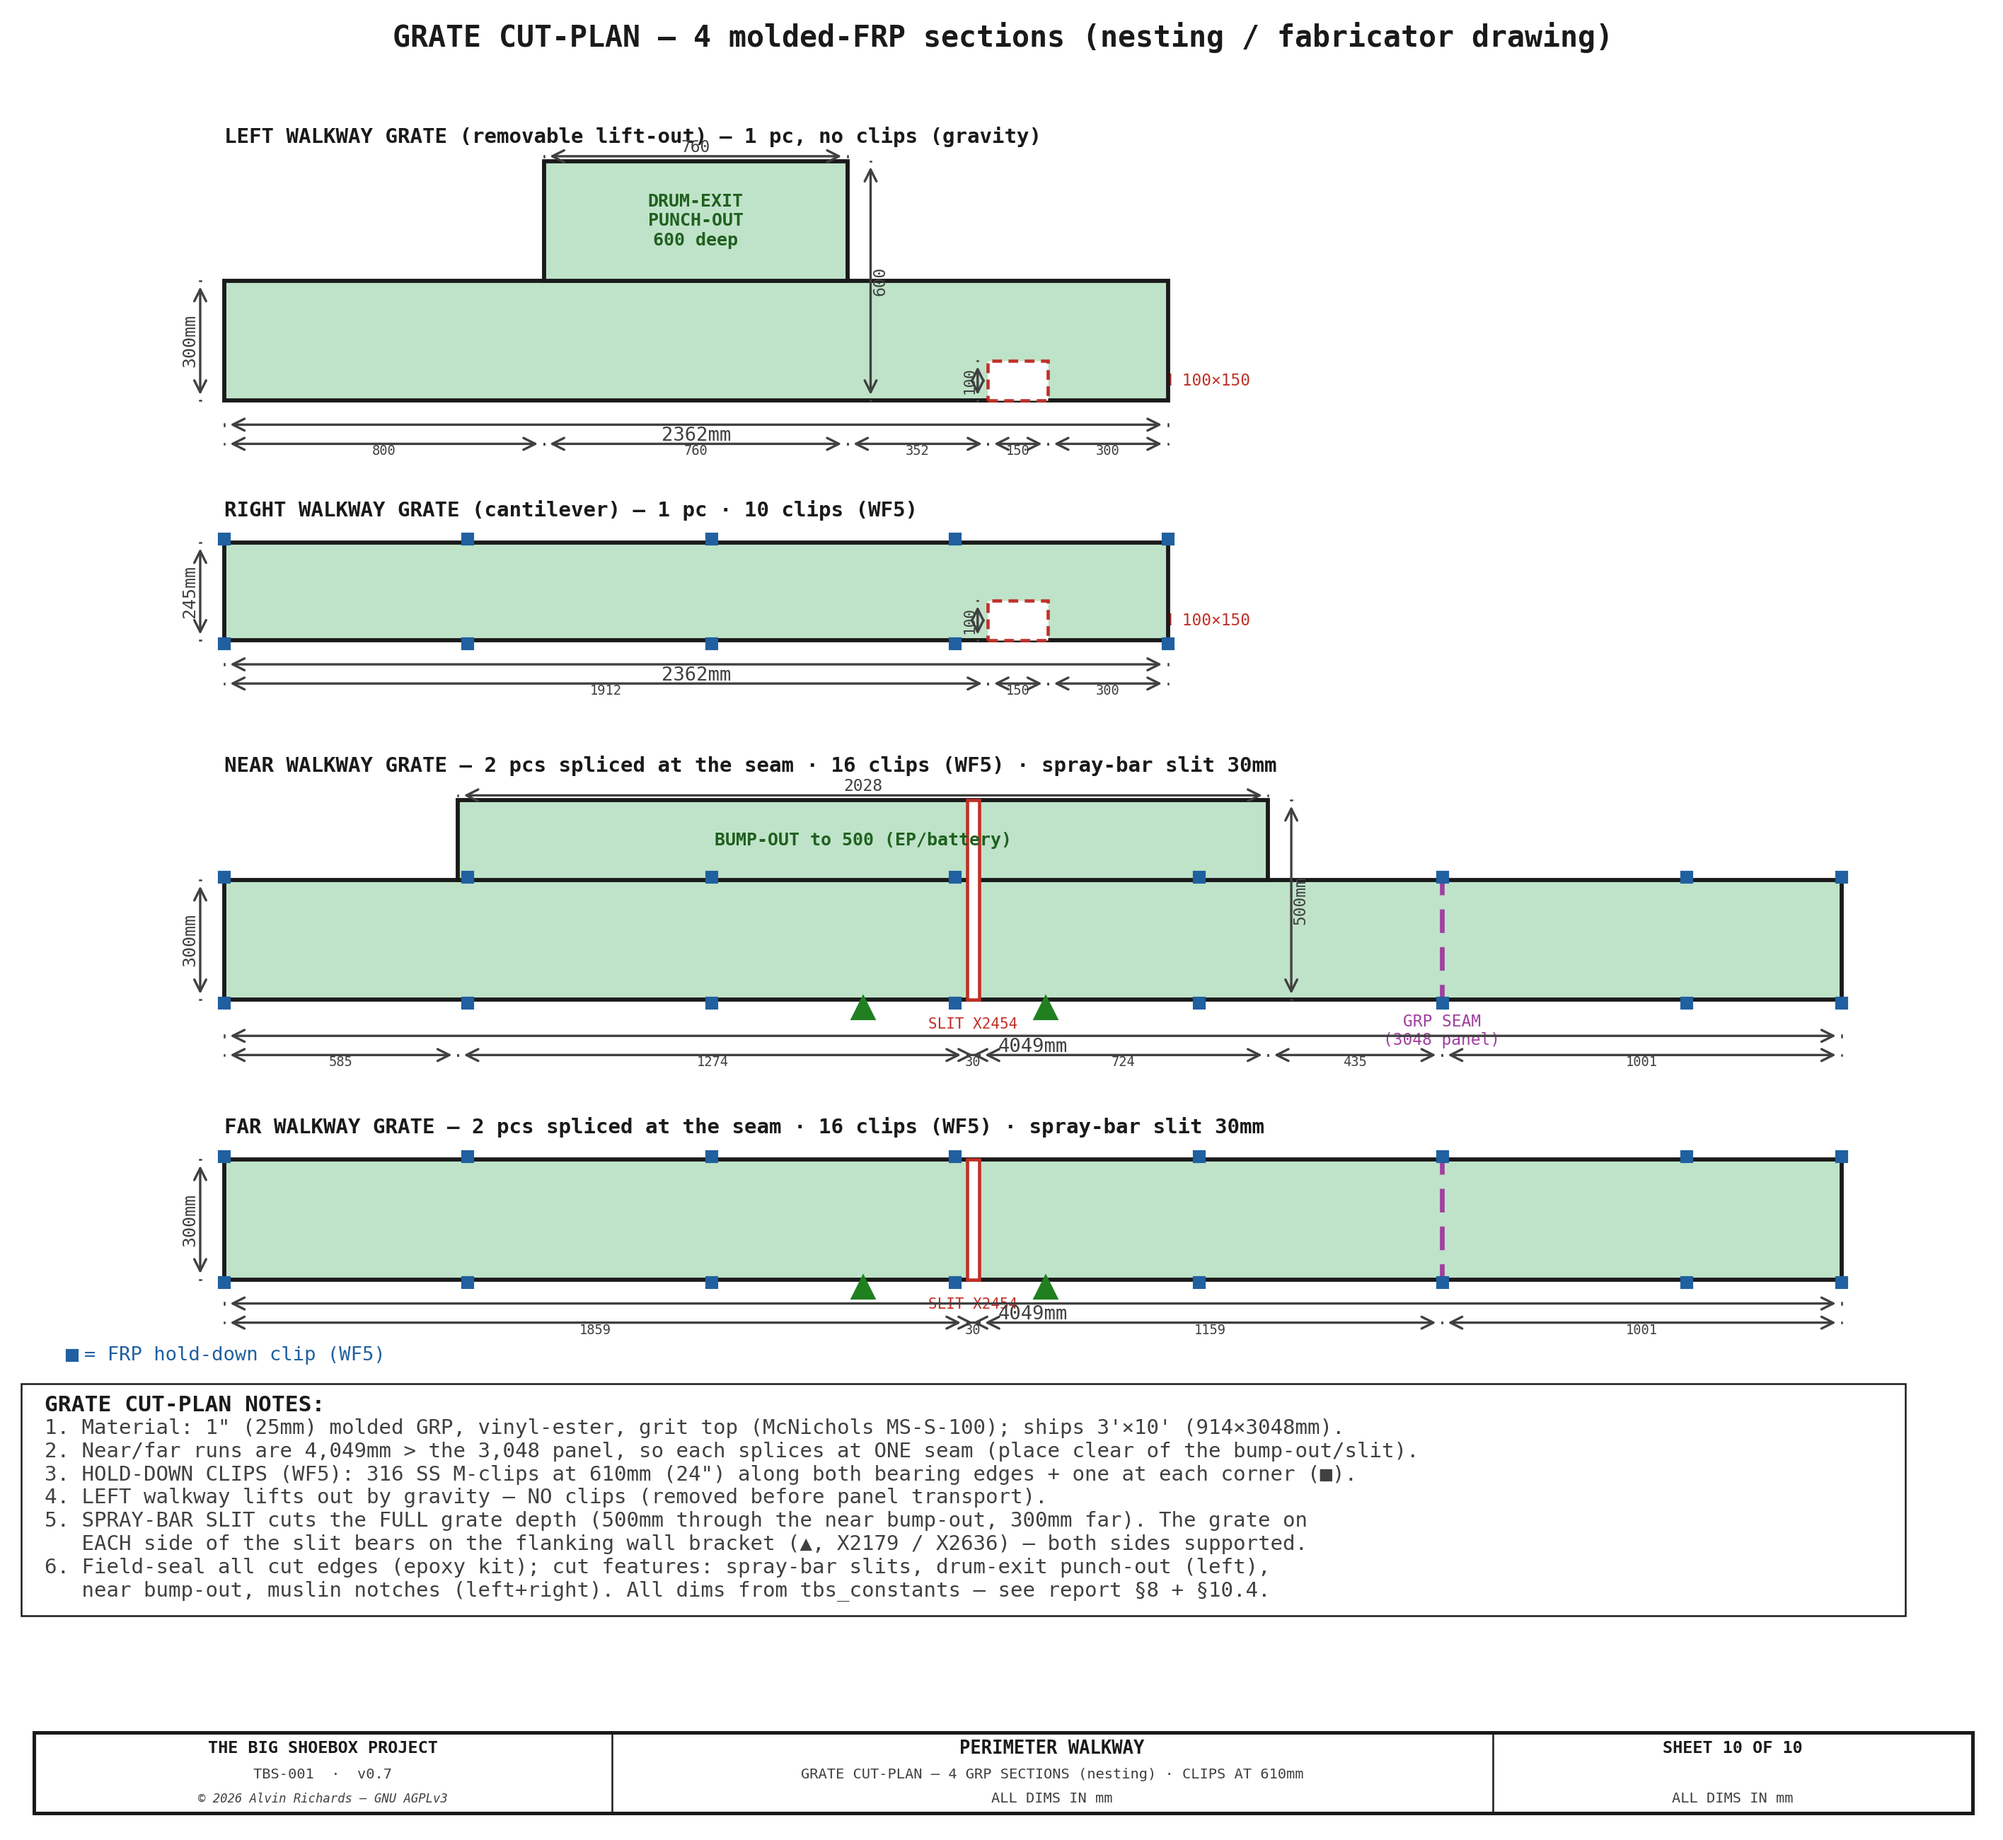
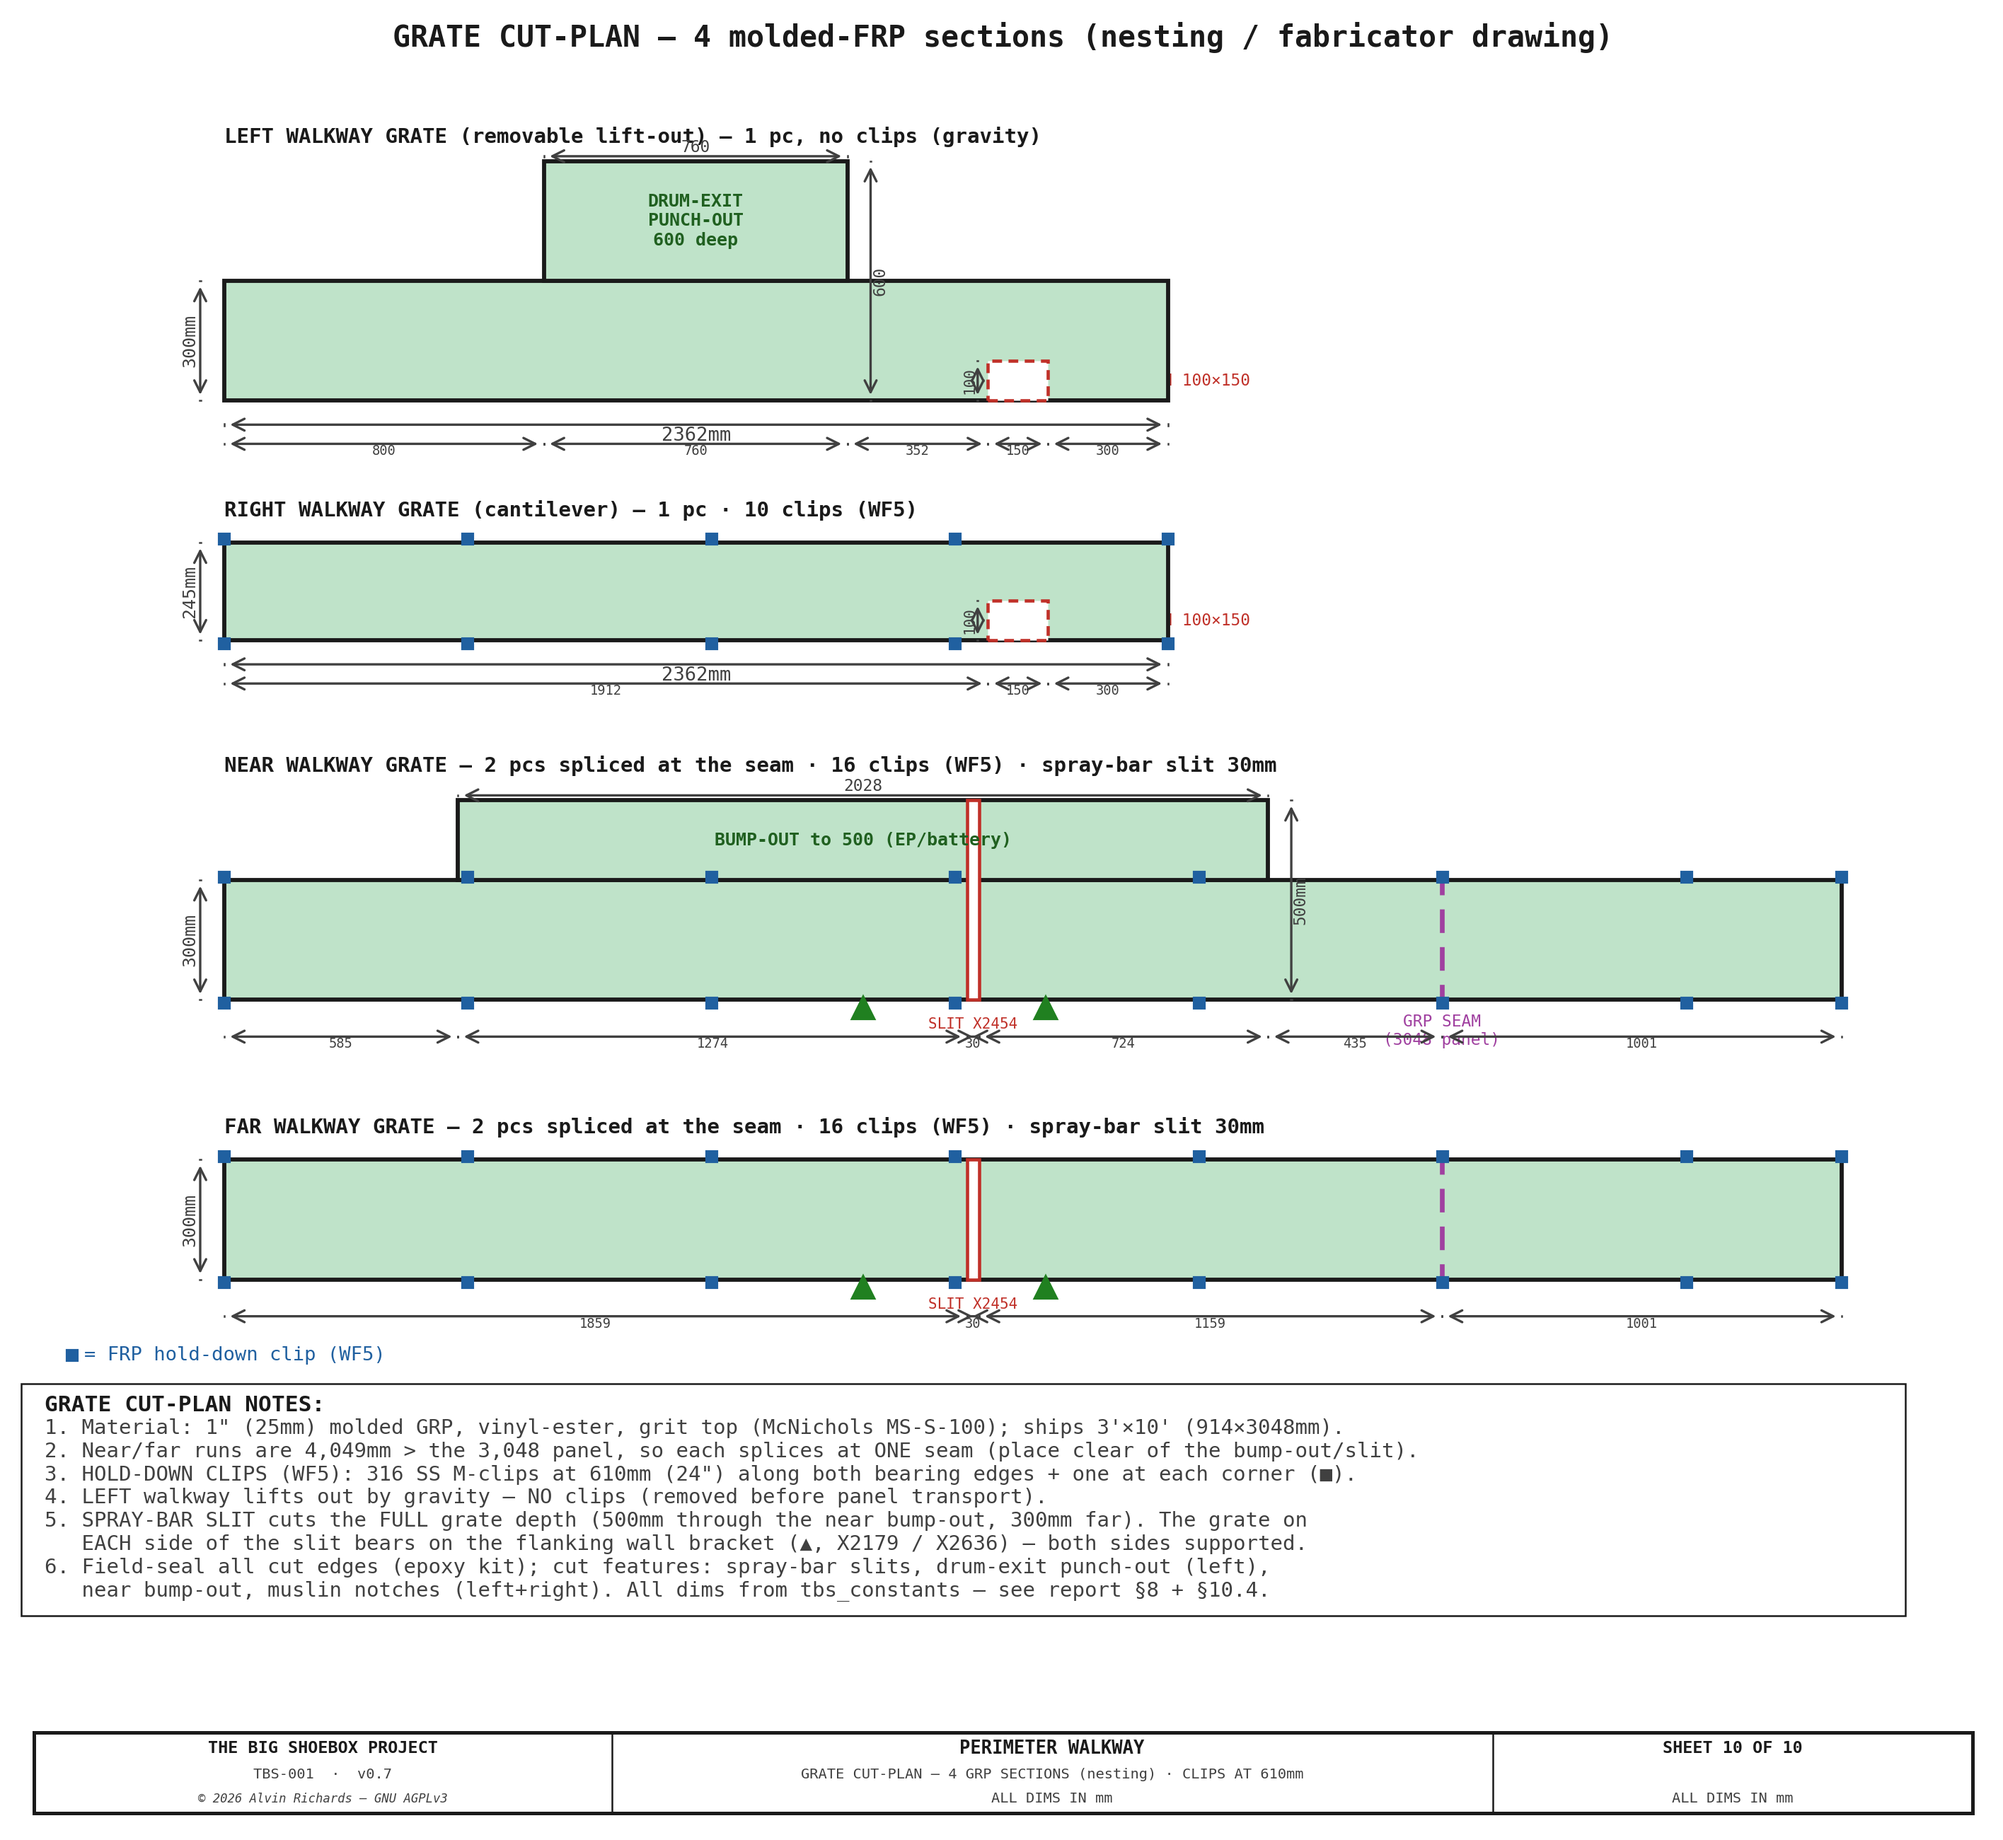
walkway Sheet 10: drop the overall length line on the near/far sections
Alvin: on the two long (4049mm) sections the overall length dim clashed with the
mid-span slit callouts. Drop it there — the position dimension chain (which locates
every cut edge) already sums to the full length. Left/right keep their 2362mm
overall (no congestion). FAR chain dropped to match NEAR spacing (clears the slit
label).

diff --git a/src/generators/generate_walkway_diagram.py b/src/generators/generate_walkway_diagram.py
@@ -2772,12 +2772,12 @@ def sheet10():
     nc = clips(0, nf_len, y - 8) + clips(0, nf_len, y + W + 8)
     ax.text(0, y + W + 260, f"NEAR WALKWAY GRATE — 2 pcs spliced at the seam · {nc} clips (WF5) · spray-bar slit {SPRAY_BAR_SLIT_W}mm",
             ha="left", va="bottom", fontsize=7, color=C_OUT, fontweight="bold", **FONT)
-    draw_dim_h(ax, 0, nf_len, y - 90, f"{nf_len:.0f}mm", offset=8, fs=6.5, above=False, font=FONT)
     draw_dim_v(ax, -60, y, y + W, f"{W}mm", offset=8, fs=6, right=False, font=FONT)
-    # cutout dims — bump-out (width above, 500 depth on the right) + position chain (incl. the 30 slit)
+    # cutout dims — bump-out (width above, 500 depth on the right) + position chain (incl. the 30 slit);
+    # the position chain replaces the overall length line on the long near/far sections (Alvin 2026-08-19)
     draw_dim_h(ax, xoff_nw_l, xoff_nw_r, y + WW + 12, f"{xoff_nw_r - xoff_nw_l:.0f}", offset=4, fs=5.5, font=FONT)
     draw_dim_v(ax, xoff_nw_r + 58, y, y + WW, f"{WW}mm", offset=5, fs=5.5, right=True, font=FONT)
-    chain([0, xoff_nw_l, slit_c - SPRAY_BAR_SLIT_W / 2, slit_c + SPRAY_BAR_SLIT_W / 2, xoff_nw_r, GRP_MAX, nf_len], y - 138)
+    chain([0, xoff_nw_l, slit_c - SPRAY_BAR_SLIT_W / 2, slit_c + SPRAY_BAR_SLIT_W / 2, xoff_nw_r, GRP_MAX, nf_len], y - 92)
 
     # ── FAR piece (4049 × 300, spray slit, seam) ──
     y = 650
@@ -2787,9 +2787,8 @@ def sheet10():
     nc = clips(0, nf_len, y - 8) + clips(0, nf_len, y + W + 8)
     ax.text(0, y + W + 55, f"FAR WALKWAY GRATE — 2 pcs spliced at the seam · {nc} clips (WF5) · spray-bar slit {SPRAY_BAR_SLIT_W}mm",
             ha="left", va="bottom", fontsize=7, color=C_OUT, fontweight="bold", **FONT)
-    draw_dim_h(ax, 0, nf_len, y - 60, f"{nf_len:.0f}mm", offset=8, fs=6.5, above=False, font=FONT)
     draw_dim_v(ax, -60, y, y + W, f"{W}mm", offset=8, fs=6, right=False, font=FONT)
-    chain([0, slit_c - SPRAY_BAR_SLIT_W / 2, slit_c + SPRAY_BAR_SLIT_W / 2, GRP_MAX, nf_len], y - 108)
+    chain([0, slit_c - SPRAY_BAR_SLIT_W / 2, slit_c + SPRAY_BAR_SLIT_W / 2, GRP_MAX, nf_len], y - 92)
 
     # ── Notes / legend ──
     notes = [
